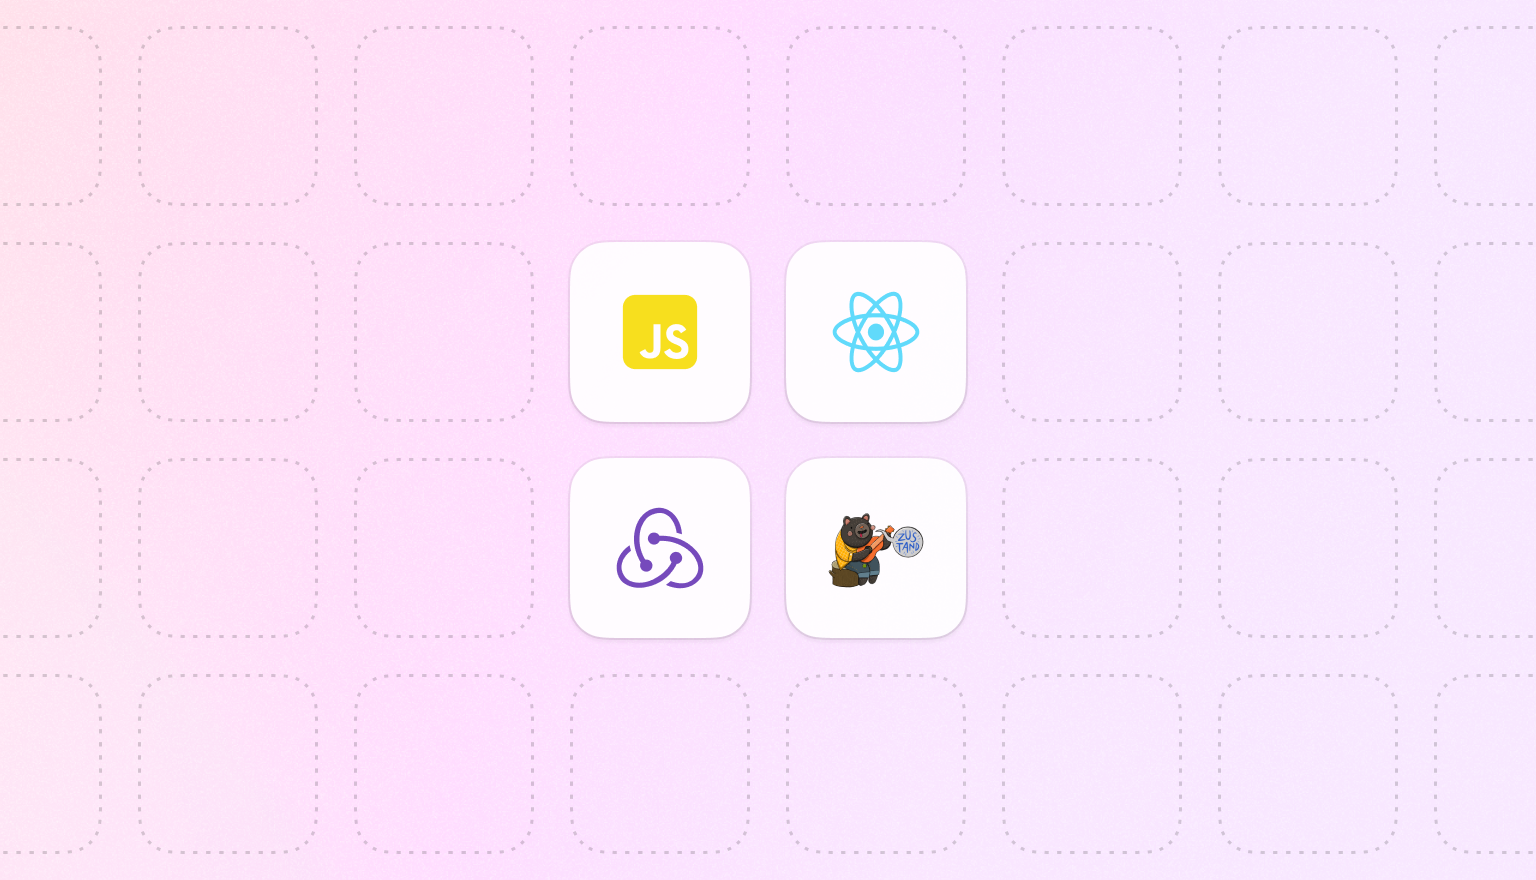
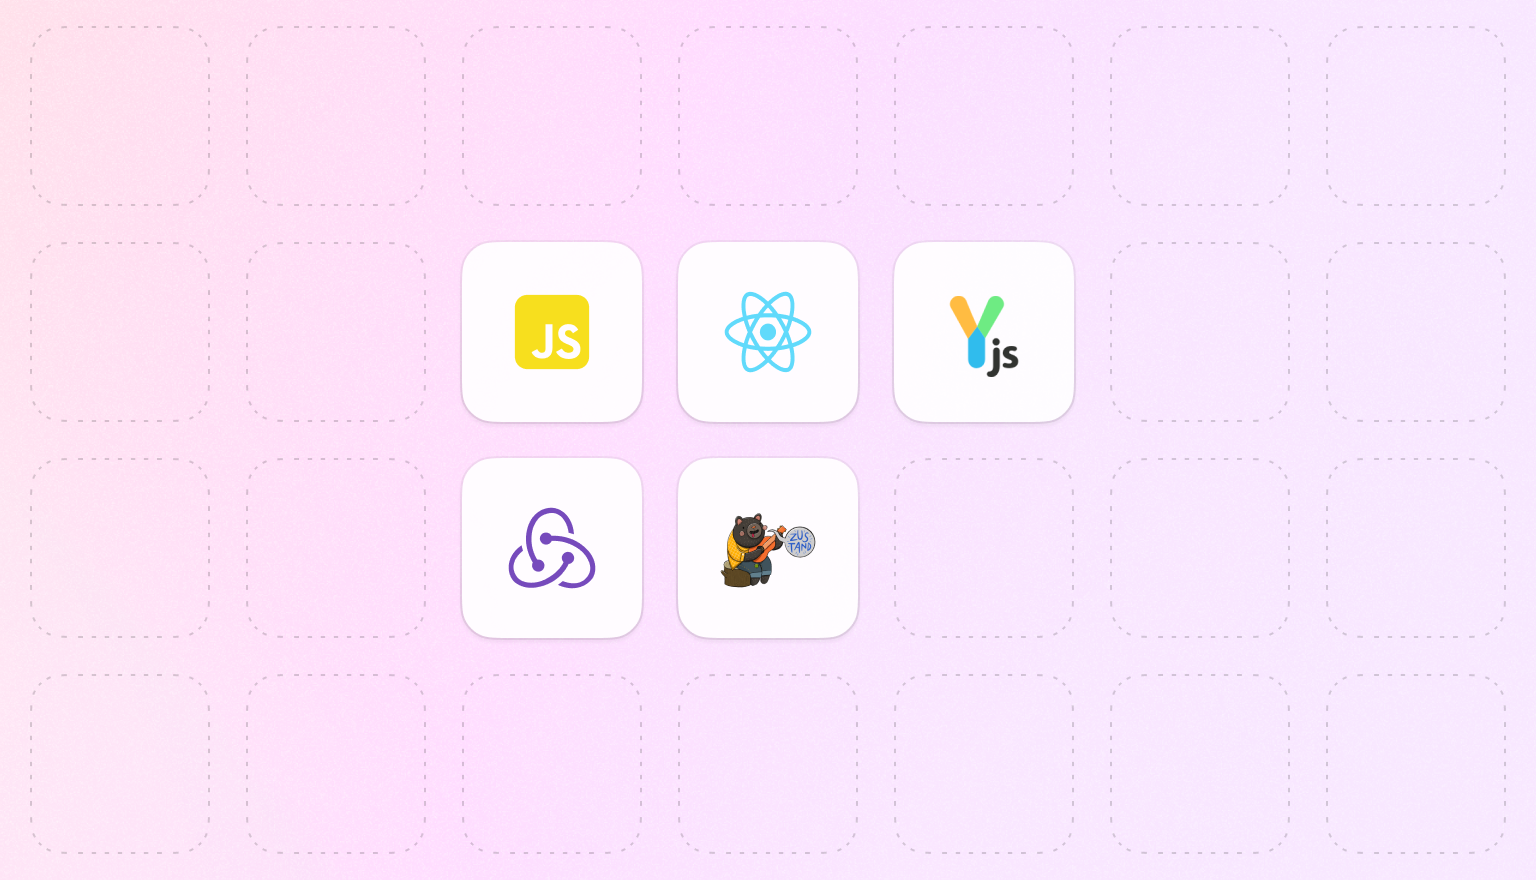
Updated READMEs and assets (#1102)

Changed region(s): [[0.2812, 0.2761, 0.6875, 0.4909], [0.2812, 0.5216, 0.625, 0.7364]]

diff --git a/README.md b/README.md
@@ -37,7 +37,7 @@ Liveblocks is a fully integrated solution built around core products, each
 enabling a different facet of collaborative experiences:
 [Presence](https://liveblocks.io/docs/products/presence),
 [Broadcast](https://liveblocks.io/docs/products/broadcast),
-[Storage](https://liveblocks.io/docs/products/storage), and Comments (private
+[Document](https://liveblocks.io/docs/products/document), and Comments (private
 beta). You can decide what products you want to use based on your requirements
 and collaborative experiences you’re looking to build.
 
@@ -60,6 +60,7 @@ forms, and more.
 - [`@liveblocks/react`](https://liveblocks.io/docs/api-reference/liveblocks-react)
 - [`@liveblocks/zustand`](https://liveblocks.io/docs/api-reference/liveblocks-zustand)
 - [`@liveblocks/redux`](https://liveblocks.io/docs/api-reference/liveblocks-redux)
+- [`@liveblocks/yjs`](https://liveblocks.io/docs/api-reference/liveblocks-yjs)
 
 ### Platform
 

diff --git a/packages/liveblocks-yjs/README.md b/packages/liveblocks-yjs/README.md
@@ -9,7 +9,7 @@
 
 # `@liveblocks/yjs`
 
-`@liveblocks/yjs` provides a provider to integrate
+`@liveblocks/yjs` is a Yjs provider to integrate
 [Yjs](https://github.com/yjs/yjs) applications with Liveblocks—a platform to
 build, host, and scale collaborative applications with zero configuration, no
 maintenance required.
